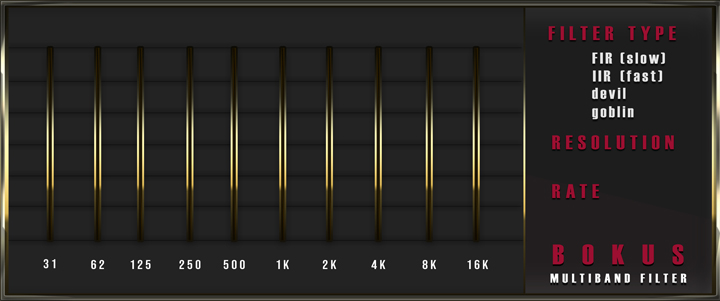
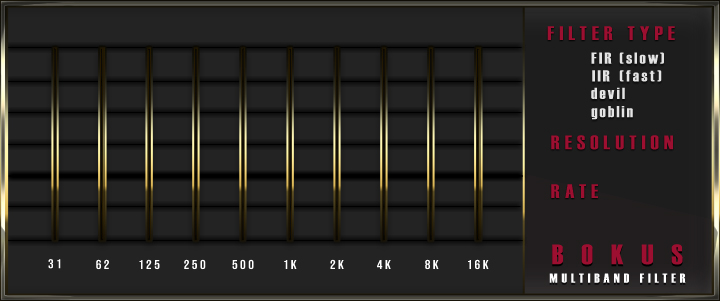
Forms dependency removed. Sliders retrieving data.

diff --git a/mic/gui.py b/mic/gui.py
@@ -1,0 +1,172 @@
+# This Python file uses the following encoding: utf-8
+import sys
+import os
+from mic import handlers as han
+
+from PySide2.QtWidgets import QApplication, QWidget, QSlider, QPlainTextEdit
+from PySide2.QtWidgets import QRadioButton, QButtonGroup, QComboBox, QLabel
+from PySide2.QtCore import QFile
+from PySide2.QtUiTools import QUiLoader
+from PySide2.QtGui import QIcon
+from PySide2.QtCore import QSize
+from PySide2 import QtCore
+from PySide2.QtCore import (QCoreApplication, QDate, QDateTime, QMetaObject,
+    QObject, QPoint, QRect, QSize, QTime, QUrl, Qt)
+from PySide2.QtGui import (QBrush, QColor, QConicalGradient, QCursor, QFont,
+    QFontDatabase, QIcon, QKeySequence, QLinearGradient, QPalette, QPainter,
+    QPixmap, QRadialGradient)
+from PySide2.QtWidgets import *
+
+import ctypes
+
+myappid = 'bokus-filter' # arbitrary string
+ctypes.windll.shell32.SetCurrentProcessExplicitAppUserModelID(myappid)
+
+class micGui(QWidget):
+    app_icon = QIcon()
+    app = QApplication([])
+    handlers = han.Handlers(50)
+    changesAvailable = True
+    handleUpdated = -1
+    sliders = []
+
+    # True if some handler has changed
+    def checkHandlersStatus(self):
+        if (self.changesAvailable):
+            self.changesAvailable = False
+            return True
+        return False
+
+    def __init__(self, numberOfHandles = 10):
+        super(micGui, self).__init__()
+        self.setupGui(numberOfHandles)
+        
+    def setupGui(self, numberOfHandles):
+        self.configWindow()
+        self.configureBackground()
+        self.filterModeButtons()
+        self.resolutionOptions()
+        self.samplingRateOptions()
+        for i in range(numberOfHandles):
+            self.sliders.append(self.createImgSlider("./mic/gui/filter-gui/slider.png", i))
+            self.sliders[i].valueChanged[int].connect(lambda val, index = i: self.setHandlers(val, index))
+            self.handlers.register_callback(self.updateHandlersStatus)
+
+    def updateHandlersStatus(self, handleNumber):
+        self.changesAvailable = True
+        self.handleUpdated = handleNumber
+
+    def setHandlers(self, newVal, handlerID):
+        val = [handlerID, newVal]
+        print(self.handlers.value)
+        self.handlers.value = val
+
+    def resolutionOptions(self):
+        resolutions = ["Ultra High", "High", "Normal", "Low", "Ultra Low"]
+        self.setComboBox(2, 550, 155, "comboBox", resolutions)
+
+    def samplingRateOptions(self):
+        rates = ["48000", "44100", "32000", "22050", "11025", "8000"]
+        self.setComboBox(3, 550, 204, "comboBox_2", rates)
+
+    def configureBackground(self):
+        image = "mic/gui/filter-gui/UI.jpg"
+
+        self.text_field = QPlainTextEdit(self)
+        self.text_field.setDisabled(True)
+        self.text_field.setMinimumSize(720, 301)
+        self.text_field.setStyleSheet(  "background-image: url(" + 
+                                        image + 
+                                        "); background-attachment: fixed"
+                                    )
+
+    def setComboBox(self, 
+                    startingIndex = 0, 
+                    xPos = 0, yPos = 0, 
+                    objName = "default",
+                    items = []):
+        self.comboBox = QComboBox(self)
+        for item in items:
+            self.comboBox.addItem(item)
+        self.comboBox.setObjectName(u"comboBox")
+        self.comboBox.setGeometry(QRect(xPos, yPos, 125, 22))
+        self.comboBox.setCurrentIndex(startingIndex)
+
+    def configIcons(self):
+        self.app_icon.addFile('mic/gui/filter-gui/icon/icon16.png', QSize(16,16))
+        self.app_icon.addFile('mic/gui/filter-gui/icon/icon24.png', QSize(24,24))
+        self.app_icon.addFile('mic/gui/filter-gui/icon/icon32.png', QSize(32,32))
+        self.app_icon.addFile('mic/gui/filter-gui/icon/icon48.png', QSize(48,48))
+        self.app_icon.addFile('mic/gui/filter-gui/icon/icon256.png', QSize(256,256))
+        self.app.setWindowIcon(self.app_icon)
+
+    def configWindow(self):
+        self.configIcons()
+        self.setWindowTitle('Bokus Multiband Filter')
+        self.setWindowFlags(self.windowFlags() | QtCore.Qt.CustomizeWindowHint)
+        self.setWindowFlags(self.windowFlags() & ~QtCore.Qt.WindowMaximizeButtonHint)
+        self.setFixedSize(720, 301)
+
+    def createImgSlider(self, imgPath, index):
+        xPosition = 35 + 47 * index
+        slider = QSlider(self)
+        slider.setObjectName(u"slider" + str(index))
+        slider.setGeometry(QRect(xPosition, 49, 41, 191))
+        slider.setCursor(QCursor(Qt.OpenHandCursor))
+        slider.setMouseTracking(False)
+        slider.setFocusPolicy(Qt.StrongFocus)
+        slider.setAcceptDrops(False)
+        slider.setAutoFillBackground(False)
+        slider.setStyleSheet(    u"QSlider::handle:vertical {\n"
+                                                "	image: url(" + imgPath + ");\n"
+                                                "	width: 50px;\n"
+                                                "	height: 13px\n"
+                                                "}\n"
+                                                "\n"
+                                                "QSlider::groove:vertical{\n"
+                                                "	background: rgba(0, 0, 0, 0);\n"
+                                                "}"  )
+        slider.setValue(50)
+        slider.setSliderPosition(50)
+        slider.setOrientation(Qt.Vertical)
+        slider.setInvertedAppearance(False)
+        return slider
+
+
+    def load_ui(self):
+        loader = QUiLoader()
+        path = os.path.join(os.path.dirname(__file__), "./gui/filter-gui/form2.ui")
+        ui_file = QFile(path)
+        ui_file.open(QFile.ReadOnly)
+        loader.load(ui_file, self)
+        ui_file.close()
+
+    def filterModeButtons(self):
+        self.filterTypeButtons = QButtonGroup(self)
+        self.configFilterTypeButtons("firButton", True, 560, 49, 0)
+        self.configFilterTypeButtons("iirButton", False, 560, 68, 1)
+        self.configFilterTypeButtons("devilButton", False, 560, 86, 2)
+        self.configFilterTypeButtons("goblinButton", False, 560, 104, 3)
+
+    def configFilterTypeButtons(self, 
+                                name = u"default", 
+                                checked = False, 
+                                xPos = 0, yPos = 0, 
+                                idButton = 0):
+        self.button = QRadioButton(self)
+        self.button.setObjectName(name)
+        self.button.setEnabled(True)
+        self.button.setGeometry(QRect(xPos, yPos, 82, 17))
+        self.button.setCursor(QCursor(Qt.PointingHandCursor))
+        self.button.setChecked(checked)
+        self.filterTypeButtons.addButton(self.button, idButton)
+
+    def sys_exit(self, exitProgram):
+        self.app.exec_()
+        exitProgram.value = True
+        sys.exit()
+
+def runUserGUI(exitProgram):
+    widget = micGui()
+    widget.show()
+    widget.sys_exit(exitProgram)

diff --git a/main.py b/main.py
@@ -6,6 +6,7 @@ import numpy as np
 import multiprocessing as mp
 import time
 from filters import settings
+from mic import gui
 
 def plotMyFilter(filter, rate, exitProgram):
     f = np.fft.fft(filter)
@@ -24,14 +25,18 @@ def testSettings():
     A = [0, 1, 0.8, 0, 1, 0.3]
     return settings.filterSettings(f, delta, A, rate)
 
+def GUI(exitProgram):
+    gui.runUserGUI(exitProgram)
+
 if __name__ == '__main__':
     exitProgram = mp.Value('b', False)
 
     speech = mic.MicFilter( filterSettings = testSettings(), 
                             stopFlag = exitProgram )
     processes = []
+    processes.append(mp.Process(target=GUI, args=(exitProgram, )))
     processes.append(mp.Process(target=filterMyMic, args=(speech, )))
-    processes.append(mp.Process(target=plotMyFilter, args=(speech.getFilter(), speech.getRate(), exitProgram)))
+    #processes.append(mp.Process(target=plotMyFilter, args=(speech.getFilter(), speech.getRate(), exitProgram)))
 
     for process in processes:
         process.start()
@@ -39,8 +44,6 @@ if __name__ == '__main__':
     time.sleep(1)
 
     while(exitProgram.value == False):
-        if (input("quit? (y/n): ") == 'y'):
-            exitProgram.value = True 
         time.sleep(0.1)
 
     for process in processes:

diff --git a/mic/handlers.py b/mic/handlers.py
@@ -1,0 +1,28 @@
+from numpy import array, zeros
+
+class Handlers:
+    values = zeros(10)
+    _callbacks = [] 
+
+    def __init__(self, initialValue = 50):
+        for n in range(len(self.values)):
+            self.values[n] = initialValue 
+
+    @property
+    def value(self):
+        return self.values
+
+    def getValue(self, index):
+        return self.values[index]
+
+    @value.setter
+    def value(self, value):
+        self.values[value[0]] = value[1]
+        self._notify_observers(value[0])
+
+    def _notify_observers(self, handleNumber):
+        for callback in self._callbacks:
+            callback(handleNumber)
+
+    def register_callback(self, callback):
+        self._callbacks.append(callback)
